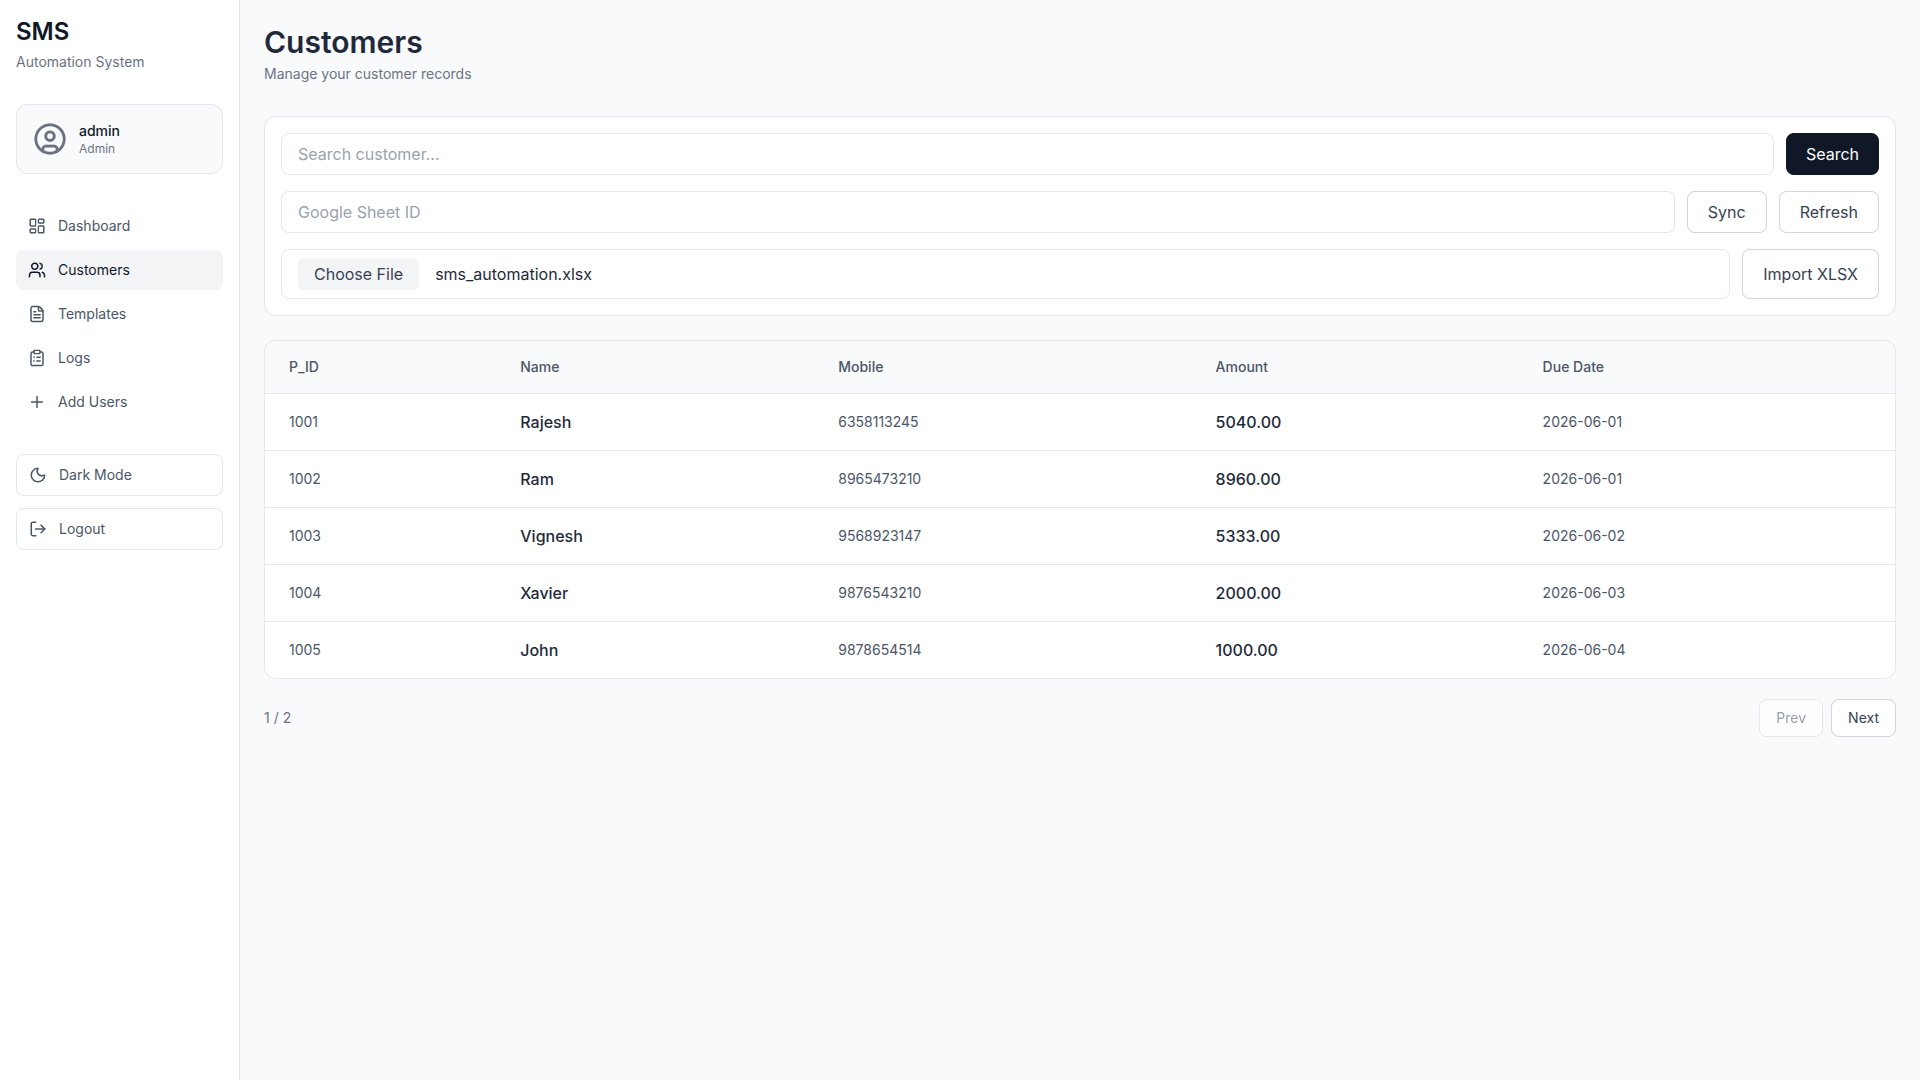
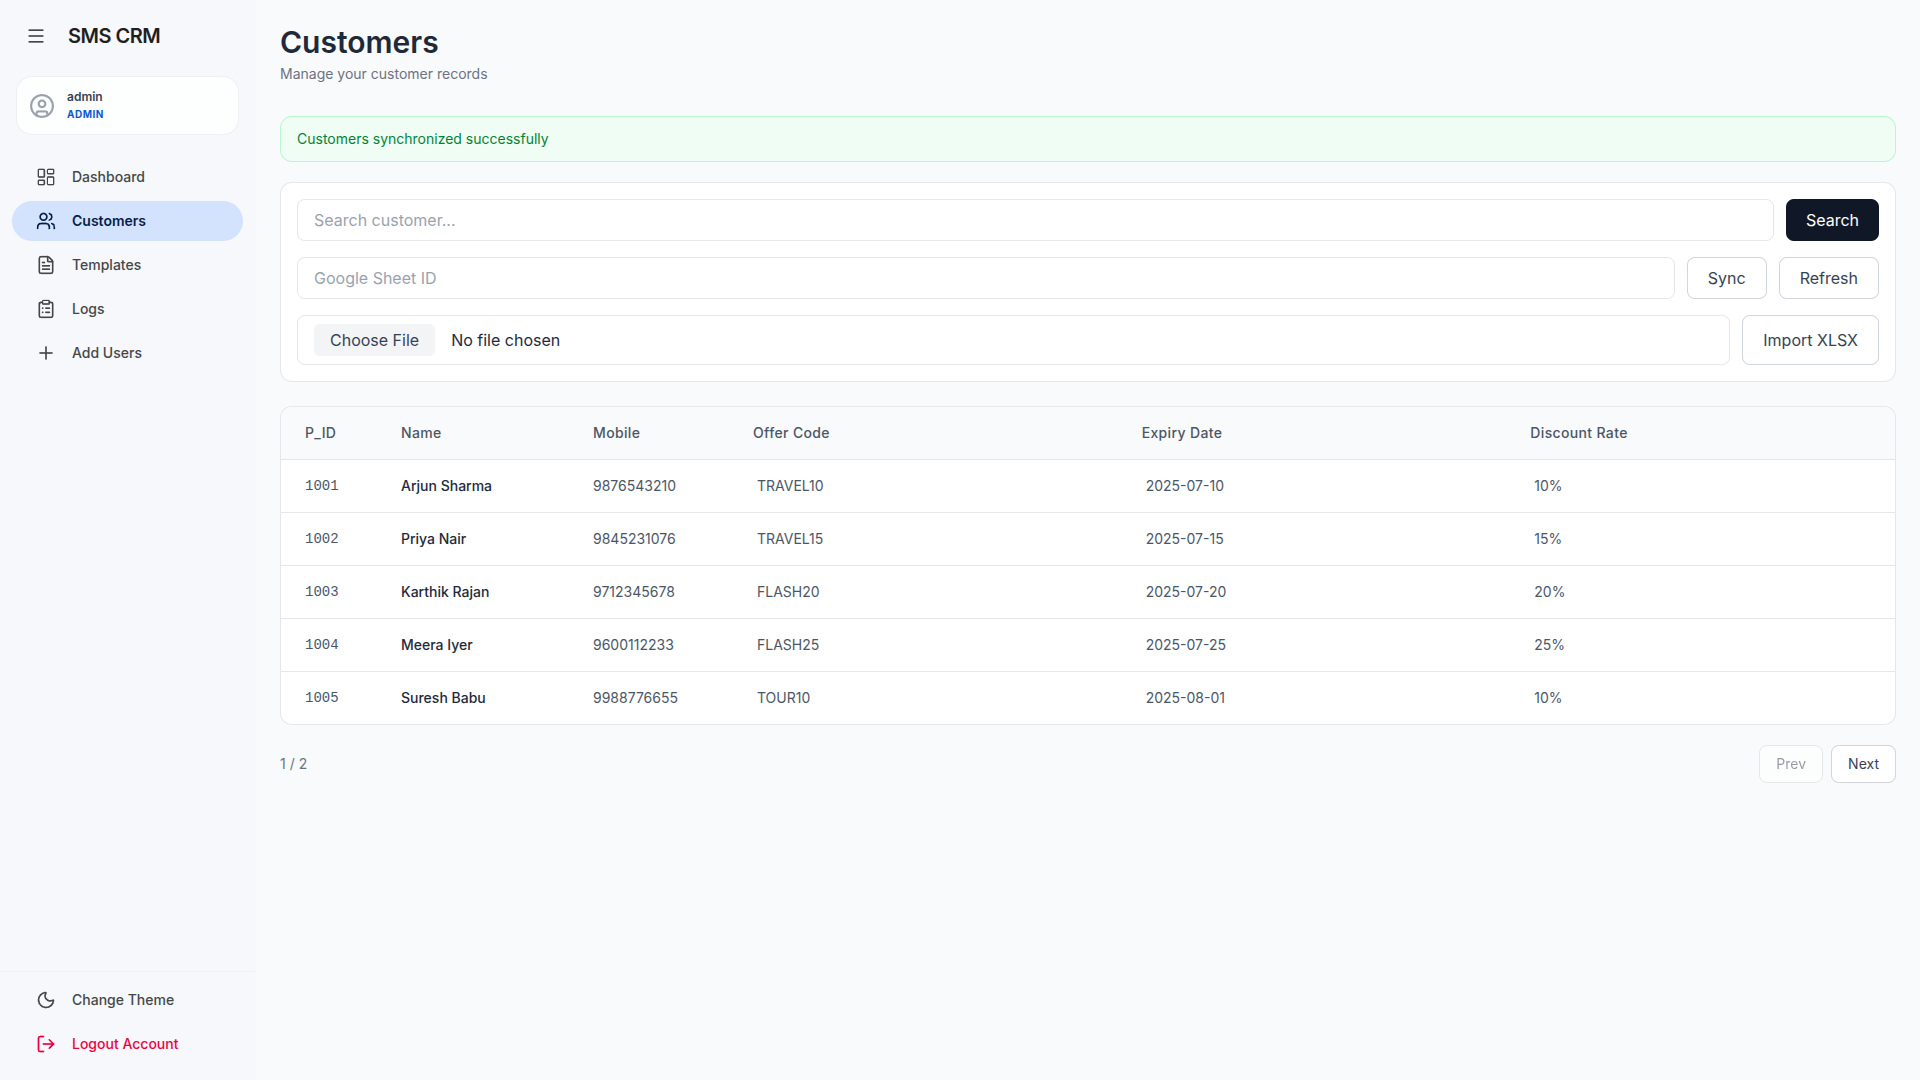
Readme.md Updated with Images
Preview Images added

diff --git a/readme.md b/readme.md
@@ -15,11 +15,15 @@ A web app that fetches customer data from Google Sheets and sends personalised S
 | Role     | Access                                                 |
 | -------- | ------------------------------------------------------ |
 | Admin    | Dashboard, Customers, Templates, Logs, User Management |
-| Operator | SMS Sender, Customers                                  |
+| Operator | SMS Sender, Bulk SMS                                   |
 
-## Tables and API endpoints
+## Models and Relation
 
-![Table Structure](./assets/DB.png)
+![Models](./assets/Models.png)
+
+## API Endpoints
+
+![Models](./assets/Endpoints.png)
 
 ## Tech Stack
 
@@ -31,6 +35,14 @@ A web app that fetches customer data from Google Sheets and sends personalised S
 
 ## Preview
 
+### Dashboard Preview
+
+![Dashboard Preview](./assets/Dashboard.png)
+
+### Customer Sync Preview
+
+![Dashboard Preview](./assets/Customers.png)
+
 ### Templates Preview
 
 ![Templates Preview](./assets/Templates.png)
@@ -39,9 +51,6 @@ A web app that fetches customer data from Google Sheets and sends personalised S
 
 ![SMS Sender Preview](./assets/SMS.png)
 
-### Dark Theme Preview
-
-![SMS Sender Preview](./assets/Dark.png)
 
 ## Setup
 
